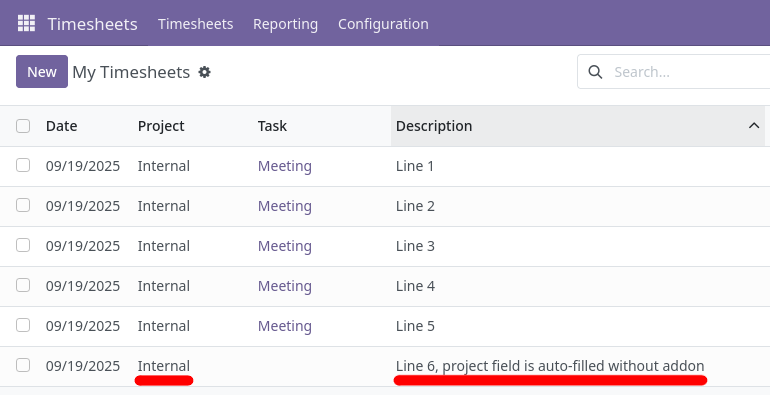
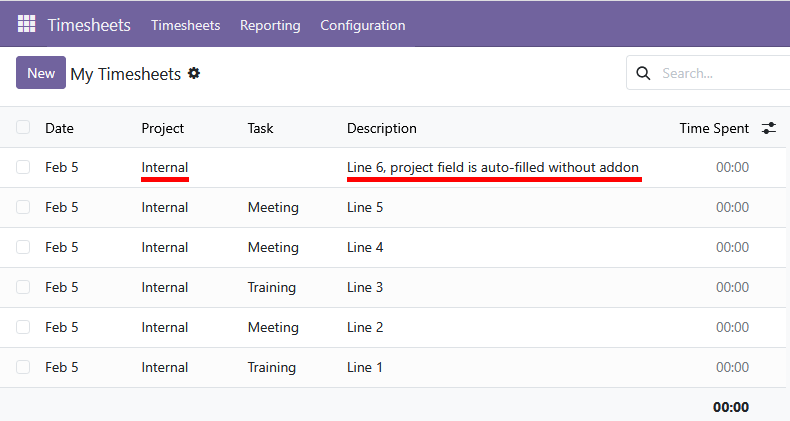
[MIG] hr_timesheet_autofill_project_off: Migration to 19.0

diff --git a/hr_timesheet_autofill_project_off/static/description/index.html b/hr_timesheet_autofill_project_off/static/description/index.html
@@ -374,7 +374,7 @@ ul.auto-toc {
 !!!!!!!!!!!!!!!!!!!!!!!!!!!!!!!!!!!!!!!!!!!!!!!!!!!!
 !! source digest: sha256:06d3ac57f77baeb5cce87a186cea3c83df40d042cacc77a1c5fb38ab1ecaf369
 !!!!!!!!!!!!!!!!!!!!!!!!!!!!!!!!!!!!!!!!!!!!!!!!!!!! -->
-<p><a class="reference external image-reference" href="https://odoo-community.org/page/development-status"><img alt="Beta" src="https://img.shields.io/badge/maturity-Beta-yellow.png" /></a> <a class="reference external image-reference" href="http://www.gnu.org/licenses/agpl-3.0-standalone.html"><img alt="License: AGPL-3" src="https://img.shields.io/badge/license-AGPL--3-blue.png" /></a> <a class="reference external image-reference" href="https://github.com/OCA/timesheet/tree/18.0/hr_timesheet_autofill_project_off"><img alt="OCA/timesheet" src="https://img.shields.io/badge/github-OCA%2Ftimesheet-lightgray.png?logo=github" /></a> <a class="reference external image-reference" href="https://translation.odoo-community.org/projects/timesheet-18-0/timesheet-18-0-hr_timesheet_autofill_project_off"><img alt="Translate me on Weblate" src="https://img.shields.io/badge/weblate-Translate%20me-F47D42.png" /></a> <a class="reference external image-reference" href="https://runboat.odoo-community.org/builds?repo=OCA/timesheet&amp;target_branch=18.0"><img alt="Try me on Runboat" src="https://img.shields.io/badge/runboat-Try%20me-875A7B.png" /></a></p>
+<p><a class="reference external image-reference" href="https://odoo-community.org/page/development-status"><img alt="Beta" src="https://img.shields.io/badge/maturity-Beta-yellow.png" /></a> <a class="reference external image-reference" href="http://www.gnu.org/licenses/agpl-3.0-standalone.html"><img alt="License: AGPL-3" src="https://img.shields.io/badge/license-AGPL--3-blue.png" /></a> <a class="reference external image-reference" href="https://github.com/OCA/timesheet/tree/19.0/hr_timesheet_autofill_project_off"><img alt="OCA/timesheet" src="https://img.shields.io/badge/github-OCA%2Ftimesheet-lightgray.png?logo=github" /></a> <a class="reference external image-reference" href="https://translation.odoo-community.org/projects/timesheet-19-0/timesheet-19-0-hr_timesheet_autofill_project_off"><img alt="Translate me on Weblate" src="https://img.shields.io/badge/weblate-Translate%20me-F47D42.png" /></a> <a class="reference external image-reference" href="https://runboat.odoo-community.org/builds?repo=OCA/timesheet&amp;target_branch=19.0"><img alt="Try me on Runboat" src="https://img.shields.io/badge/runboat-Try%20me-875A7B.png" /></a></p>
 <p>Disables automatic filling of the project field based on previous
 entries on timesheets.</p>
 <p><strong>Table of contents</strong></p>
@@ -397,18 +397,18 @@ installation, with no further steps required.</p>
 <p>By default, when adding a new line in a timesheet, the system will
 autofill the Project field if the same project was selected in the last
 five entries, as shown below:</p>
-<p><img alt="Project autofill enabled" src="https://raw.githubusercontent.com/OCA/timesheet/18.0/hr_timesheet_autofill_project_off/static/img/01_project_autofill_without_addon.png" /></p>
+<p><img alt="Project autofill enabled" src="https://raw.githubusercontent.com/OCA/timesheet/19.0/hr_timesheet_autofill_project_off/static/img/01_project_autofill_without_addon.png" /></p>
 <p>With this module installed, this behaviour is disabled and the Project
 field must be selected manually each time, regardless of previous
 selections, as shown below:</p>
-<p><img alt="Project autofill disabled" src="https://raw.githubusercontent.com/OCA/timesheet/18.0/hr_timesheet_autofill_project_off/static/img/02_no_project_autofill_with_addon.png" /></p>
+<p><img alt="Project autofill disabled" src="https://raw.githubusercontent.com/OCA/timesheet/19.0/hr_timesheet_autofill_project_off/static/img/02_no_project_autofill_with_addon.png" /></p>
 </div>
 <div class="section" id="bug-tracker">
 <h2><a class="toc-backref" href="#toc-entry-2">Bug Tracker</a></h2>
 <p>Bugs are tracked on <a class="reference external" href="https://github.com/OCA/timesheet/issues">GitHub Issues</a>.
 In case of trouble, please check there if your issue has already been reported.
 If you spotted it first, help us to smash it by providing a detailed and welcomed
-<a class="reference external" href="https://github.com/OCA/timesheet/issues/new?body=module:%20hr_timesheet_autofill_project_off%0Aversion:%2018.0%0A%0A**Steps%20to%20reproduce**%0A-%20...%0A%0A**Current%20behavior**%0A%0A**Expected%20behavior**">feedback</a>.</p>
+<a class="reference external" href="https://github.com/OCA/timesheet/issues/new?body=module:%20hr_timesheet_autofill_project_off%0Aversion:%2019.0%0A%0A**Steps%20to%20reproduce**%0A-%20...%0A%0A**Current%20behavior**%0A%0A**Expected%20behavior**">feedback</a>.</p>
 <p>Do not contact contributors directly about support or help with technical issues.</p>
 </div>
 <div class="section" id="credits">
@@ -441,7 +441,7 @@ If you spotted it first, help us to smash it by providing a detailed and welcome
 <p>OCA, or the Odoo Community Association, is a nonprofit organization whose
 mission is to support the collaborative development of Odoo features and
 promote its widespread use.</p>
-<p>This module is part of the <a class="reference external" href="https://github.com/OCA/timesheet/tree/18.0/hr_timesheet_autofill_project_off">OCA/timesheet</a> project on GitHub.</p>
+<p>This module is part of the <a class="reference external" href="https://github.com/OCA/timesheet/tree/19.0/hr_timesheet_autofill_project_off">OCA/timesheet</a> project on GitHub.</p>
 <p>You are welcome to contribute. To learn how please visit <a class="reference external" href="https://odoo-community.org/page/Contribute">https://odoo-community.org/page/Contribute</a>.</p>
 </div>
 </div>

diff --git a/hr_timesheet_autofill_project_off/models/hr_timesheet.py b/hr_timesheet_autofill_project_off/models/hr_timesheet.py
@@ -15,8 +15,8 @@ class AccountAnalyticLine(models.Model):
     def default_get(self, field_list):
         result = super().default_get(field_list)
         if (
-            not self._context.get("default_project_id")
-            and self._context.get("is_timesheet")
+            not self.env.context.get("default_project_id")
+            and self.env.context.get("is_timesheet")
             and result.get("project_id", False)
         ):
             result["project_id"] = False

diff --git a/hr_timesheet_autofill_project_off/__manifest__.py b/hr_timesheet_autofill_project_off/__manifest__.py
@@ -3,7 +3,7 @@
 
 {
     "name": "Timesheet - Autofill project off",
-    "version": "18.0.1.0.0",
+    "version": "19.0.1.0.0",
     "author": "Innovara, Odoo Community Association (OCA)",
     "license": "AGPL-3",
     "category": "Human Resources",

diff --git a/hr_timesheet_autofill_project_off/README.rst b/hr_timesheet_autofill_project_off/README.rst
@@ -21,13 +21,13 @@ Timesheet - Autofill project off
     :target: http://www.gnu.org/licenses/agpl-3.0-standalone.html
     :alt: License: AGPL-3
 .. |badge3| image:: https://img.shields.io/badge/github-OCA%2Ftimesheet-lightgray.png?logo=github
-    :target: https://github.com/OCA/timesheet/tree/18.0/hr_timesheet_autofill_project_off
+    :target: https://github.com/OCA/timesheet/tree/19.0/hr_timesheet_autofill_project_off
     :alt: OCA/timesheet
 .. |badge4| image:: https://img.shields.io/badge/weblate-Translate%20me-F47D42.png
-    :target: https://translation.odoo-community.org/projects/timesheet-18-0/timesheet-18-0-hr_timesheet_autofill_project_off
+    :target: https://translation.odoo-community.org/projects/timesheet-19-0/timesheet-19-0-hr_timesheet_autofill_project_off
     :alt: Translate me on Weblate
 .. |badge5| image:: https://img.shields.io/badge/runboat-Try%20me-875A7B.png
-    :target: https://runboat.odoo-community.org/builds?repo=OCA/timesheet&target_branch=18.0
+    :target: https://runboat.odoo-community.org/builds?repo=OCA/timesheet&target_branch=19.0
     :alt: Try me on Runboat
 
 |badge1| |badge2| |badge3| |badge4| |badge5|
@@ -58,8 +58,8 @@ selections, as shown below:
 
 |Project autofill disabled|
 
-.. |Project autofill enabled| image:: https://raw.githubusercontent.com/OCA/timesheet/18.0/hr_timesheet_autofill_project_off/static/img/01_project_autofill_without_addon.png
-.. |Project autofill disabled| image:: https://raw.githubusercontent.com/OCA/timesheet/18.0/hr_timesheet_autofill_project_off/static/img/02_no_project_autofill_with_addon.png
+.. |Project autofill enabled| image:: https://raw.githubusercontent.com/OCA/timesheet/19.0/hr_timesheet_autofill_project_off/static/img/01_project_autofill_without_addon.png
+.. |Project autofill disabled| image:: https://raw.githubusercontent.com/OCA/timesheet/19.0/hr_timesheet_autofill_project_off/static/img/02_no_project_autofill_with_addon.png
 
 Bug Tracker
 ===========
@@ -67,7 +67,7 @@ Bug Tracker
 Bugs are tracked on `GitHub Issues <https://github.com/OCA/timesheet/issues>`_.
 In case of trouble, please check there if your issue has already been reported.
 If you spotted it first, help us to smash it by providing a detailed and welcomed
-`feedback <https://github.com/OCA/timesheet/issues/new?body=module:%20hr_timesheet_autofill_project_off%0Aversion:%2018.0%0A%0A**Steps%20to%20reproduce**%0A-%20...%0A%0A**Current%20behavior**%0A%0A**Expected%20behavior**>`_.
+`feedback <https://github.com/OCA/timesheet/issues/new?body=module:%20hr_timesheet_autofill_project_off%0Aversion:%2019.0%0A%0A**Steps%20to%20reproduce**%0A-%20...%0A%0A**Current%20behavior**%0A%0A**Expected%20behavior**>`_.
 
 Do not contact contributors directly about support or help with technical issues.
 
@@ -103,6 +103,6 @@ OCA, or the Odoo Community Association, is a nonprofit organization whose
 mission is to support the collaborative development of Odoo features and
 promote its widespread use.
 
-This module is part of the `OCA/timesheet <https://github.com/OCA/timesheet/tree/18.0/hr_timesheet_autofill_project_off>`_ project on GitHub.
+This module is part of the `OCA/timesheet <https://github.com/OCA/timesheet/tree/19.0/hr_timesheet_autofill_project_off>`_ project on GitHub.
 
 You are welcome to contribute. To learn how please visit https://odoo-community.org/page/Contribute.
